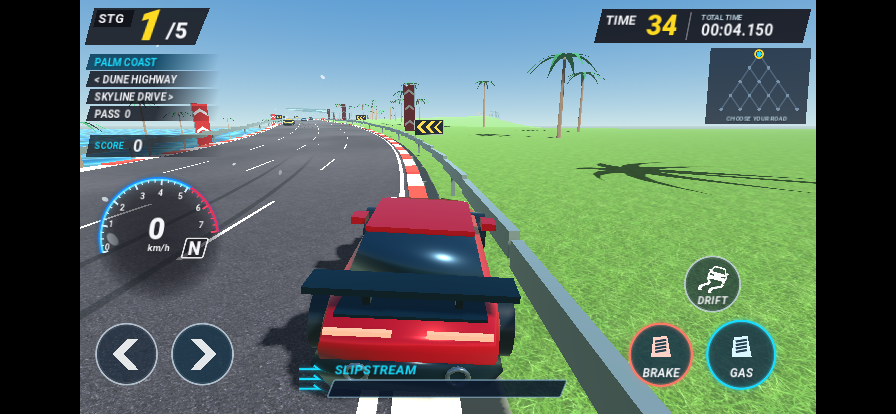
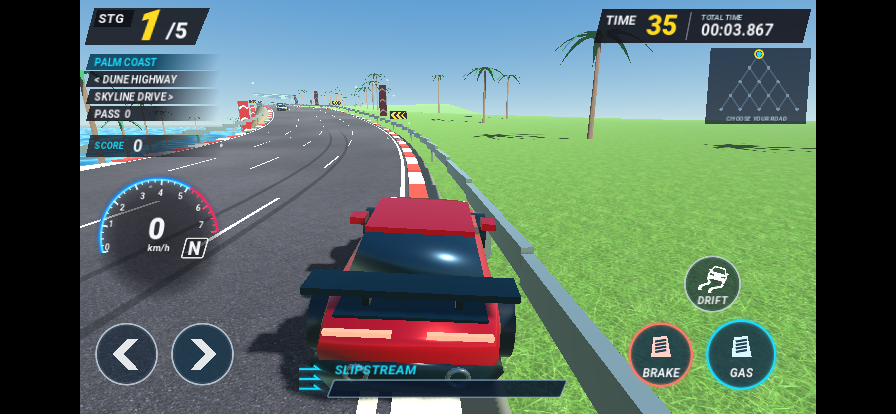
Reduce car draw calls and refine elevated roads, ruined facades and Seoul skyline

diff --git a/new/docs/TOUR.md b/new/docs/TOUR.md
@@ -4,7 +4,7 @@ Current behavior is the five-stage Coast Rush tour. Earlier Fuji/lap-racing scre
 
 ## Geometry and depth
 
-`route_library.gd` defines eight themes across 15 nodes in five rows. Each selected section has two physical preview roads, and a left/right fork chooses the next node. The selected route contains approximately 7.9 km. Sections rise 12–28 m above their entry elevation, with the surface, cars and camera following the grade. Junction transitions project the player's world position onto the chosen branch; distance never wraps into a lap.
+`route_library.gd` defines eight themes across 15 nodes in five rows. Each selected section has two physical preview roads, and a left/right fork chooses the next node. The selected route contains approximately 7.9 km. Sections rise 28–52 m above their entry elevation, with the surface, cars and camera following the grade. Junction transitions project the player's world position onto the chosen branch; distance never wraps into a lap.
 
 `road_biome.gd` builds real geometry: palms and sea in Hawaii; dunes and pyramids; windowed city buildings; an observation tower for Seoul; broken blocks and rubble; an animated Ferris wheel and tents; basalt rocks and wind turbines for Jeju. These are thematic stylizations rather than geographic reproductions. Every section includes a transparent framed canopy and an arch tunnel. Large props begin beyond the shared fork area; the unselected branch's terrain is disabled after commitment to prevent terrain covering the selected road.
 
@@ -37,3 +37,7 @@ DISPLAY=:99 godot --path new --script res://tests/audio_review.gd --audio-driver
 ```
 
 The environment uses Mesa software rendering. Its frame rate is not representative of a player's GPU. Real phones still need performance and handling review. Godot version tested: 4.6.3, not 4.7.2.
+
+## Rendering revision
+
+Static car parts now share one mesh surface per material. Distant traffic uses four simple batched wheel silhouettes, while nearby cars retain spinning rims. Small traffic details no longer cast separate shadows. A fixed 1280×720 software-rendered canopy fixture reduced draw calls from 1,520 to approximately 580. This measures rendering work, not real-device FPS. Terrain elevation was increased from 12–28 m to 28–52 m, and ruined facades gained broken tops and open window gaps.
